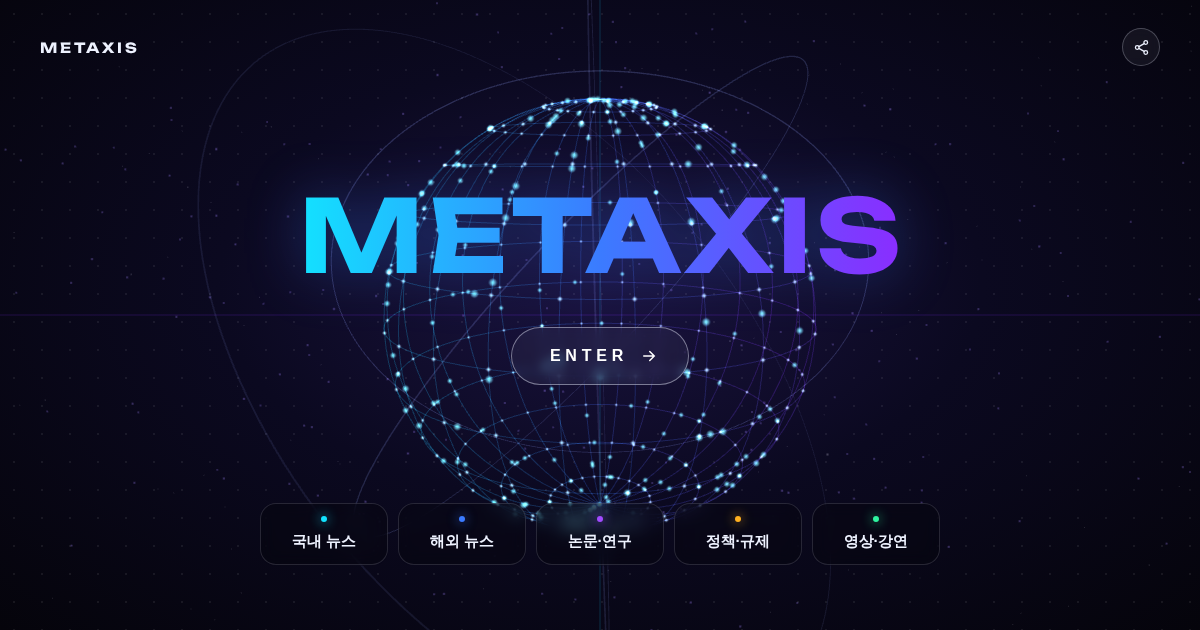
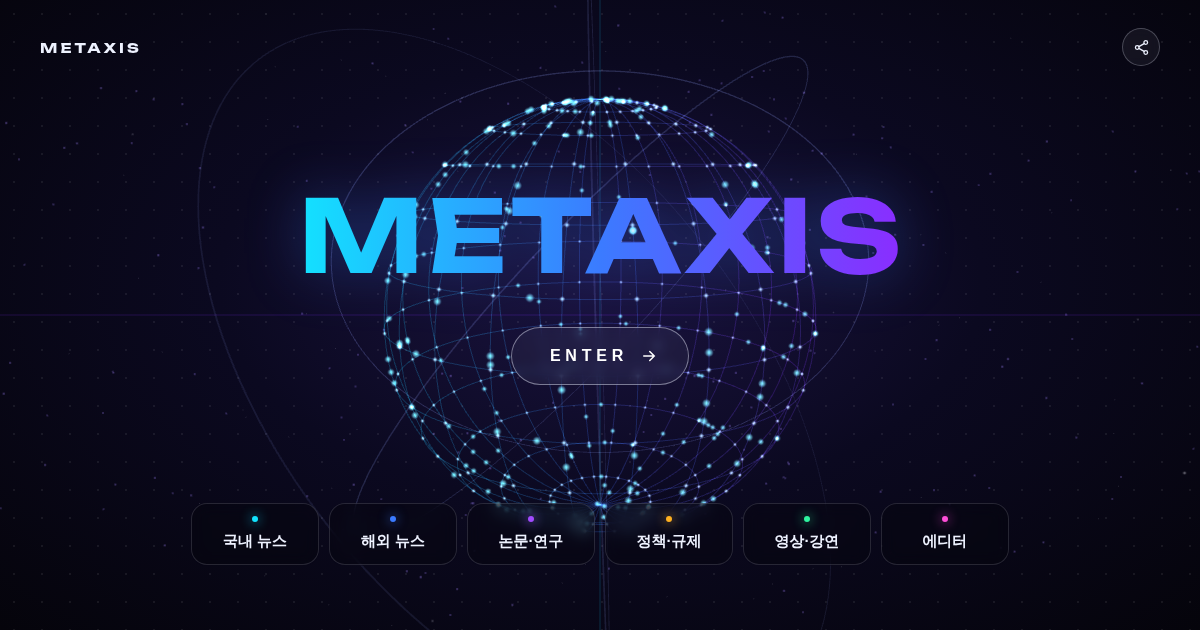
첫 화면: 웹 카테고리에 에디터 추가, 모바일은 METAXIS 글자를 지구본 가운데로, 공유 사진 갱신
Claude-Session: https://claude.ai/code/session_01UJEvuNfZKzwumytNU3Mwch

diff --git a/intro.html b/intro.html
@@ -47,7 +47,7 @@ a{color:inherit;text-decoration:none}
 @keyframes pl{50%{opacity:.25}}
 .fade{position:fixed;inset:0;background:#fff;opacity:0;pointer-events:none;transition:opacity .7s ease}
 body.go .fade{opacity:1}body.go .ui{opacity:0;transition:opacity .4s}
-@media (max-width:640px){.ui{padding-left:18px;padding-right:18px}.mid{flex:1;display:flex;flex-direction:column;align-items:center;justify-content:space-between;padding:26px 0 18px}.mid h1{margin:0}.mid br{display:none}.cats{display:grid;grid-template-columns:1fr 1fr;gap:8px}
+@media (max-width:640px){.ui{padding-left:18px;padding-right:18px}.mid{flex:1;display:flex;flex-direction:column;align-items:center;justify-content:flex-end;padding:0 0 18px;position:relative}.mid h1{margin:0;position:fixed;left:50%;top:50%;transform:translate(-50%,-50%);white-space:nowrap;filter:drop-shadow(0 0 18px rgba(4,3,14,.95)) drop-shadow(0 0 6px rgba(4,3,14,.9))}.mid br{display:none}.cats{display:grid;grid-template-columns:1fr 1fr;gap:8px}
  .cats a{min-width:0;padding:10px}.cats a:last-child:nth-child(odd){grid-column:1/-1}.mid p{margin:14px 0 26px}.hint{display:none}.cats{display:none}.mid{padding-bottom:6px}}
 @media (prefers-color-scheme:dark){.fade{background:#101018}}
 </style></head><body>
@@ -115,7 +115,7 @@ try{
  const DN=400,dp=new Float32Array(DN*3);for(let i=0;i<DN*3;i++)dp[i]=(Math.random()-.5)*24;
  const dg=new T.BufferGeometry();dg.setAttribute('position',new T.BufferAttribute(dp,3));const dust=new T.Points(dg,pmat(.03,0xffffff,.45));S.add(dust);
  // 카테고리마다 다른 관점(각도)에서 세계를 본다
- const VIEWS=[[.35,0],[.1,1.2],[-.5,2.4],[.9,3.3],[-.2,4.5],[.5,5.5]];
+ const VIEWS=[[.35,0],[.1,1.2],[-.5,2.4],[.9,3.3],[-.2,4.5],[.5,5.5],[-.4,.6]];
  let tx=0,ty=0,rx=.35,ry=0,vy=reduce?0:.0012,drag=null,zoom=7.2,tz=7.2,fly=false,hold=false;const tc=new T.Color(0xffffff),cc=new T.Color(0xffffff);
  addEventListener('pointermove',e=>{tx=(e.clientX/innerWidth-.5);ty=(e.clientY/innerHeight-.5);
   if(drag){ry+=(e.clientX-drag.x)*.006;rx+=(e.clientY-drag.y)*.004;rx=Math.max(-1.3,Math.min(1.3,rx));vy=(e.clientX-drag.x)*.0008;drag={x:e.clientX,y:e.clientY};}});
@@ -126,7 +126,7 @@ try{
   a.addEventListener('pointerenter',()=>{tc.set(c.trim());tz=6.4;hold=true;rx=VIEWS[i+1][0];ry=Math.round(ry/6.283)*6.283+VIEWS[i+1][1];});
   a.addEventListener('pointerleave',()=>{tc.set(0xffffff);tz=7.2;hold=false;});});
  window.__fly=()=>{fly=true;tz=.4;vy=.03;hold=false;};
- function size(){const w=innerWidth,h=innerHeight;R.setSize(w,h,false);C.aspect=w/h;C.updateProjectionMatrix();G.scale.setScalar(Math.min(1,Math.tan(.436)*7.2*(w/h)*.88/RAD));G.position.y=w<640&&h>w?.35:0;}
+ function size(){const w=innerWidth,h=innerHeight;R.setSize(w,h,false);C.aspect=w/h;C.updateProjectionMatrix();G.scale.setScalar(Math.min(1,Math.tan(.436)*7.2*(w/h)*.88/RAD));G.position.y=0;}
  size();addEventListener('resize',size);
  const clock=new T.Clock(),white=new T.Color(0xffffff),tmp=new T.Vector3();
  let last=0;

diff --git a/briefing.py b/briefing.py
@@ -2094,6 +2094,7 @@ def render_intro(latest, cats, sc, enter="home.html", preview=False):
     count = {c: sum(1 for it in items if it["category"] == c) for c in cats}
     links = "".join(f'<a href="{c}/" data-go style="--c:{INTRO_COLORS.get(c, DEFAULT_TINT)}"><i></i><b>{esc(n)}</b></a>'
                     for c, n in cats.items())
+    links += f'<a href="editor/" data-go style="--c:{EDITOR_COLOR}"><i></i><b>에디터</b></a>'
     tick = tick_html(ticker_items(items))
     d = datetime.fromisoformat(latest["date"])
     verify = ""
